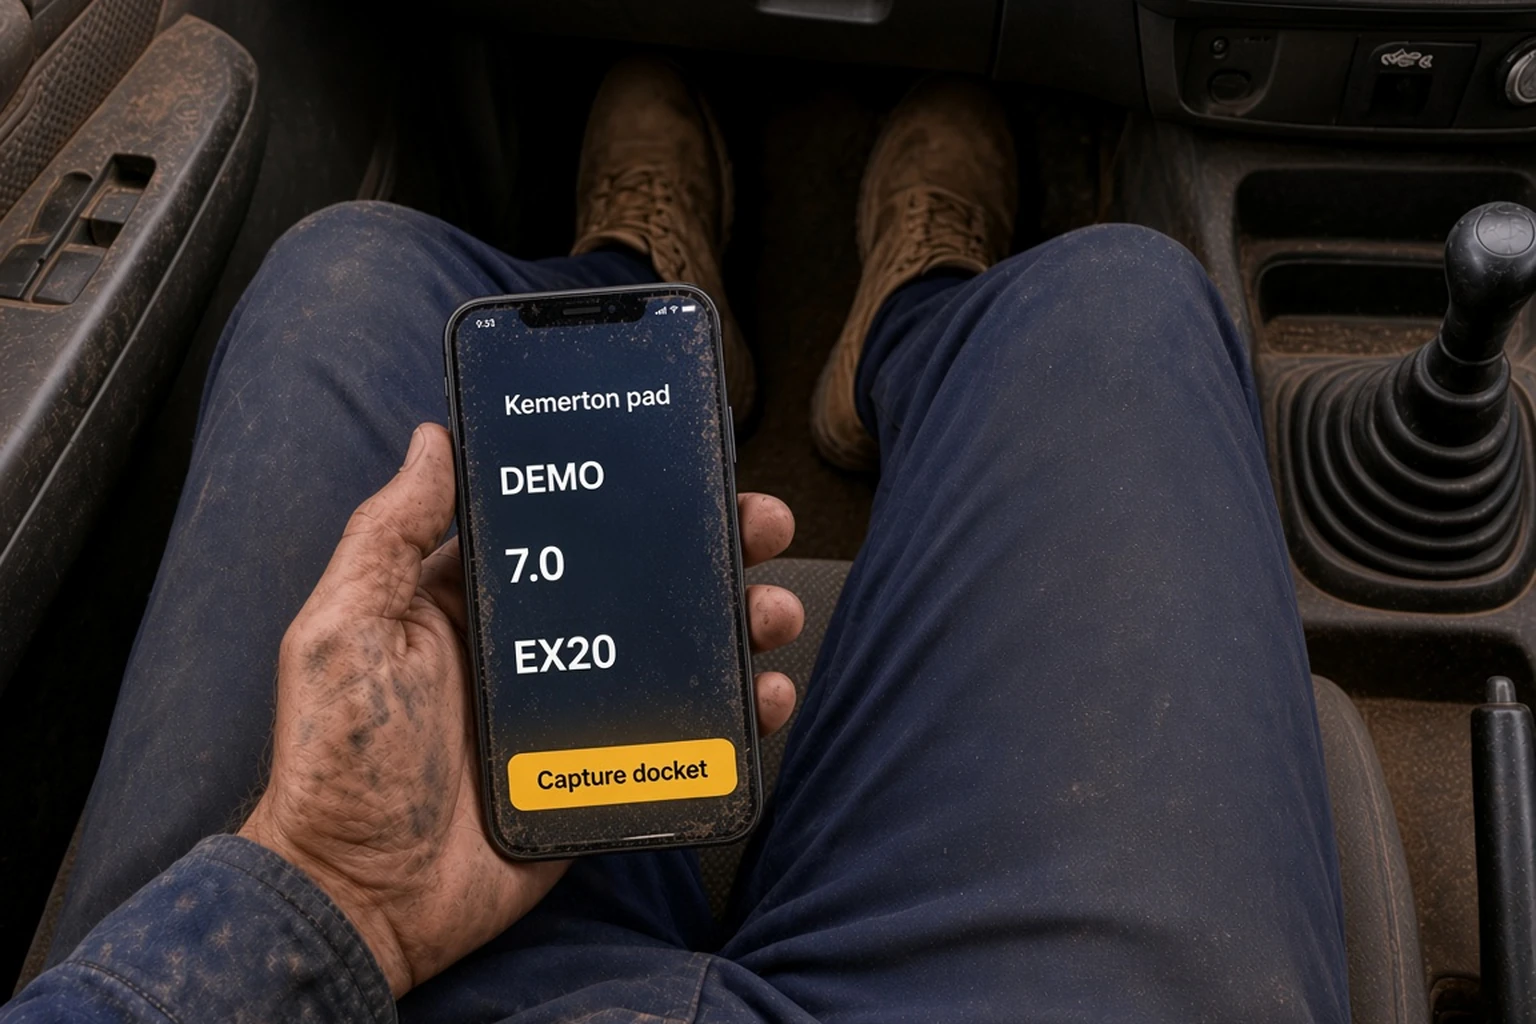
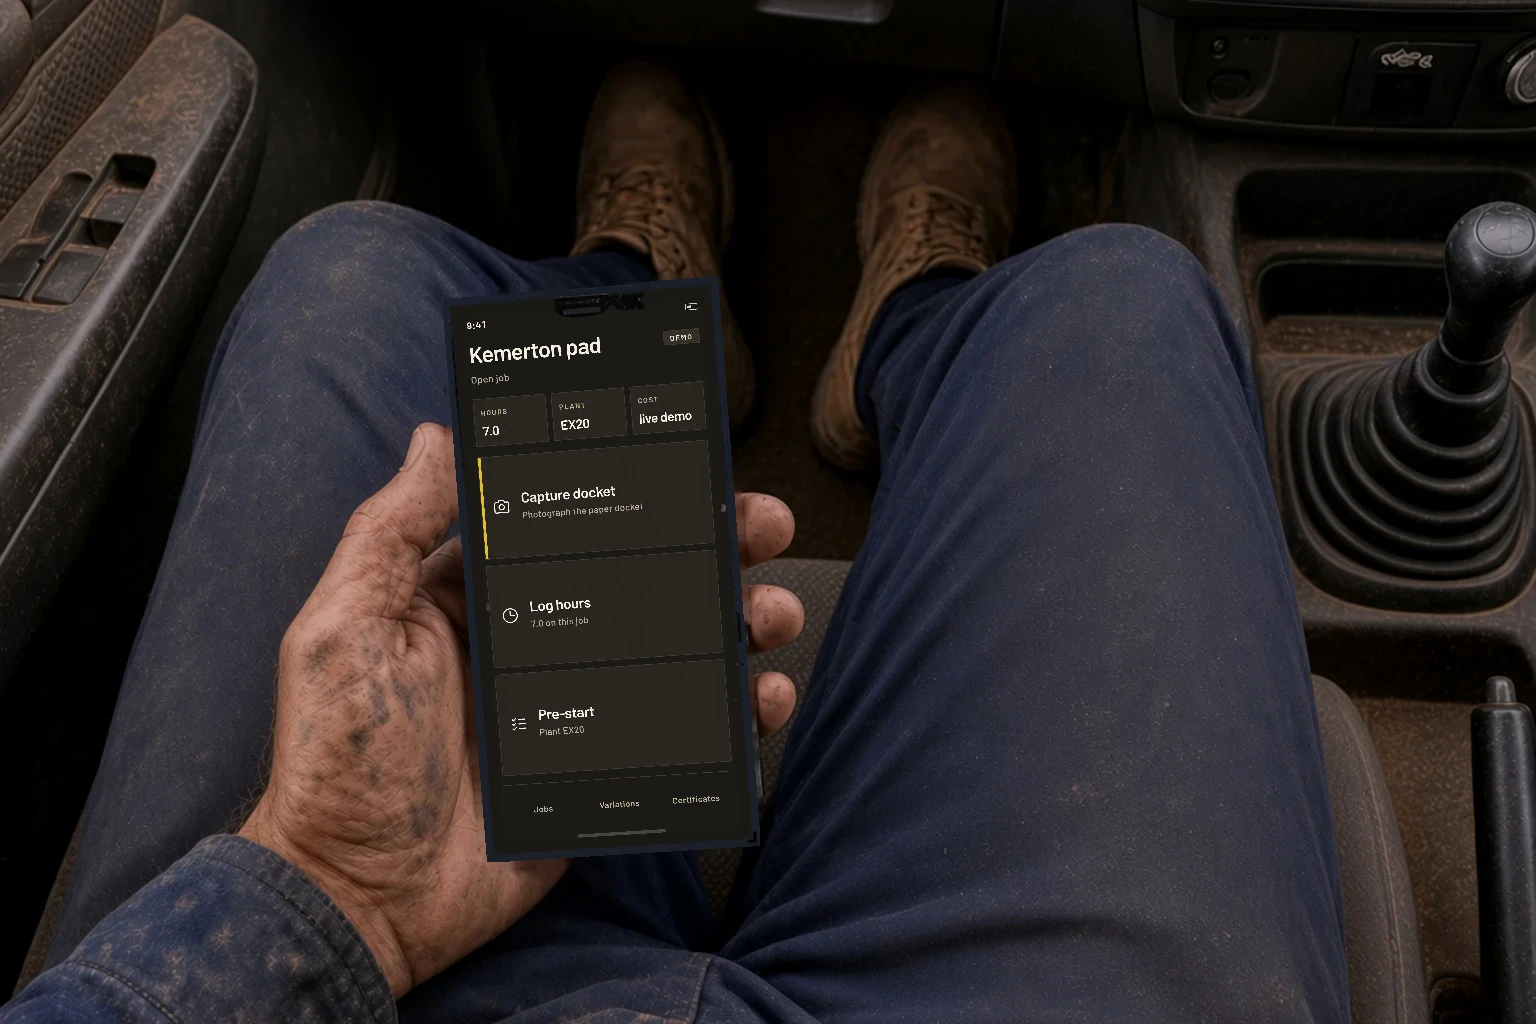
Sit the real HTML IMS in the keeper still glass.
Warp the lab phone and desk captures into the cab and office photographs so the screens read as the field app and jobs IMS, not four lines of dummy type. Homepage stills stay on rollback.

Changed region(s): [[0.2812, 0.25, 0.5, 0.8438]]

diff --git a/src/components/lab/ims/ImsCompare.tsx b/src/components/lab/ims/ImsCompare.tsx
@@ -94,27 +94,27 @@ export function ImsCompare() {
   const stills = [
     {
       src: imsCopy.stills.cabDay,
-      label: "Cab · daylight native still",
+      label: "Cab · daylight keeper",
       objectPositionClass: imsCopy.stills.cabObjectPositionClass,
-      alt: "Native cab still with daylight IMS in the phone glass.",
+      alt: "Keeper cab photograph with the real HTML field IMS warped into the phone glass.",
     },
     {
       src: imsCopy.stills.cabDusk,
-      label: "Cab · dusk native still",
+      label: "Cab · dusk keeper",
       objectPositionClass: imsCopy.stills.cabObjectPositionClass,
-      alt: "Native cab still with dusk IMS in the phone glass.",
+      alt: "Keeper cab photograph with the real dusk HTML field IMS warped into the phone glass.",
     },
     {
       src: imsCopy.stills.officeDay,
-      label: "Office · daylight native still",
+      label: "Office · daylight keeper",
       objectPositionClass: imsCopy.stills.officeObjectPositionClass,
-      alt: "Native office still with daylight IMS in the laptop glass.",
+      alt: "Keeper office photograph with the real HTML desk IMS warped into the laptop glass.",
     },
     {
       src: imsCopy.stills.officeDusk,
-      label: "Office · dusk native still",
+      label: "Office · dusk keeper",
       objectPositionClass: imsCopy.stills.officeObjectPositionClass,
-      alt: "Native office still with dusk IMS in the laptop glass.",
+      alt: "Keeper office photograph with the real dusk HTML desk IMS warped into the laptop glass.",
     },
   ];
 
@@ -147,11 +147,11 @@ export function ImsCompare() {
       </section>
 
       <section>
-        <h2 className="type-title mb-3 text-2xl">Native stills</h2>
+        <h2 className="type-title mb-3 text-2xl">Keeper stills</h2>
         <p className="type-body mb-8 text-brand-steel">
-          Whole-frame reshoots, not a warp onto the old overlay plates. Large type in the glass,
-          cropped for the homepage still frame. Live homepage files stay on rollback until a pair is
-          chosen. Default look after review: dusk in the cab, daylight in the office.
+          Keeper photographs, real HTML IMS in the glass, cropped for the homepage still frame.
+          Live homepage files stay on rollback until a pair is chosen. Default look after review:
+          dusk in the cab, daylight in the office.
         </p>
         <div className="grid gap-6 md:grid-cols-2">
           {stills.map((still) => (
@@ -163,8 +163,7 @@ export function ImsCompare() {
       <section>
         <h2 className="type-title mb-3 text-2xl">Rollback plates</h2>
         <p className="type-body mb-8 text-brand-steel">
-          Current homepage plates, copied before the native reshoot. Homepage still points at these
-          pixels.
+          Live homepage stills still use these rollback plates. Lab keepers are a separate set.
         </p>
         <div className="grid gap-6 md:grid-cols-2">
           <CropStill

diff --git a/src/content/ims.ts b/src/content/ims.ts
@@ -11,7 +11,7 @@ export type ImsJobRow = {
 export const imsCopy = {
   labTitle: "IMS screens",
   labBody:
-    "Lab only. Theoretical field and office chrome, plus native stills reshot so the screens sit in the glass. Same job system, two paints. Not a shipped product.",
+    "Lab only. Theoretical field and office chrome, plus keeper photographs with the real HTML IMS in the glass. Same job system, two paints. Not a shipped product.",
   jobTitle: "Kemerton pad",
   demo: "DEMO",
   demoNote: "Theoretical IMS. Demo layout, not a live customer job.",
